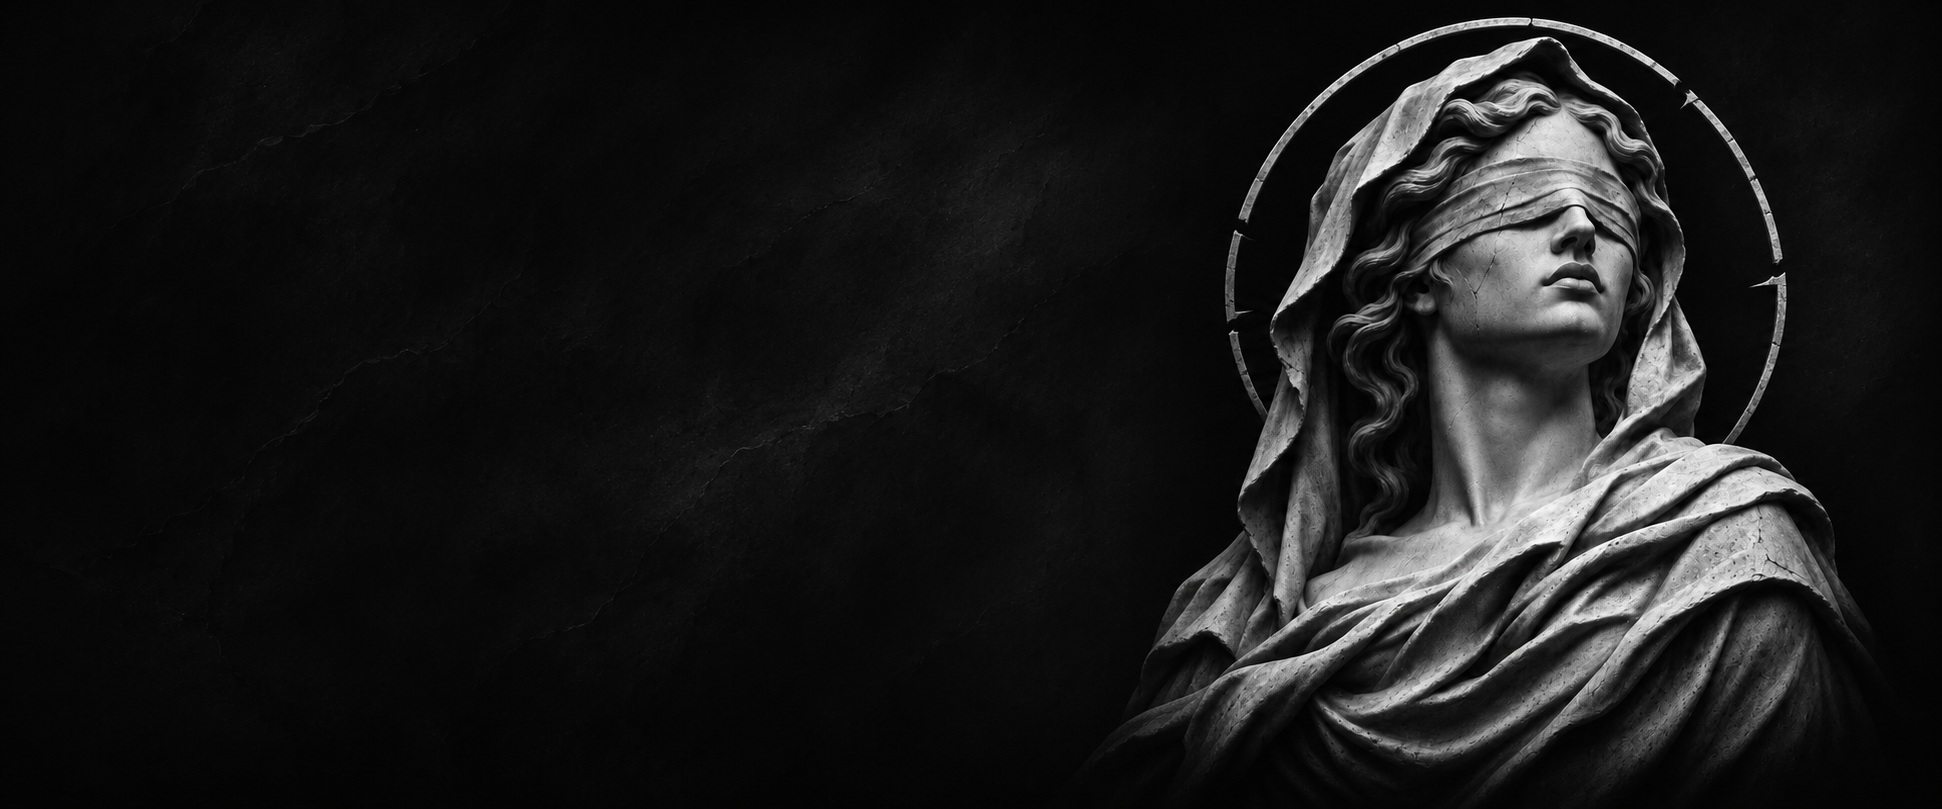
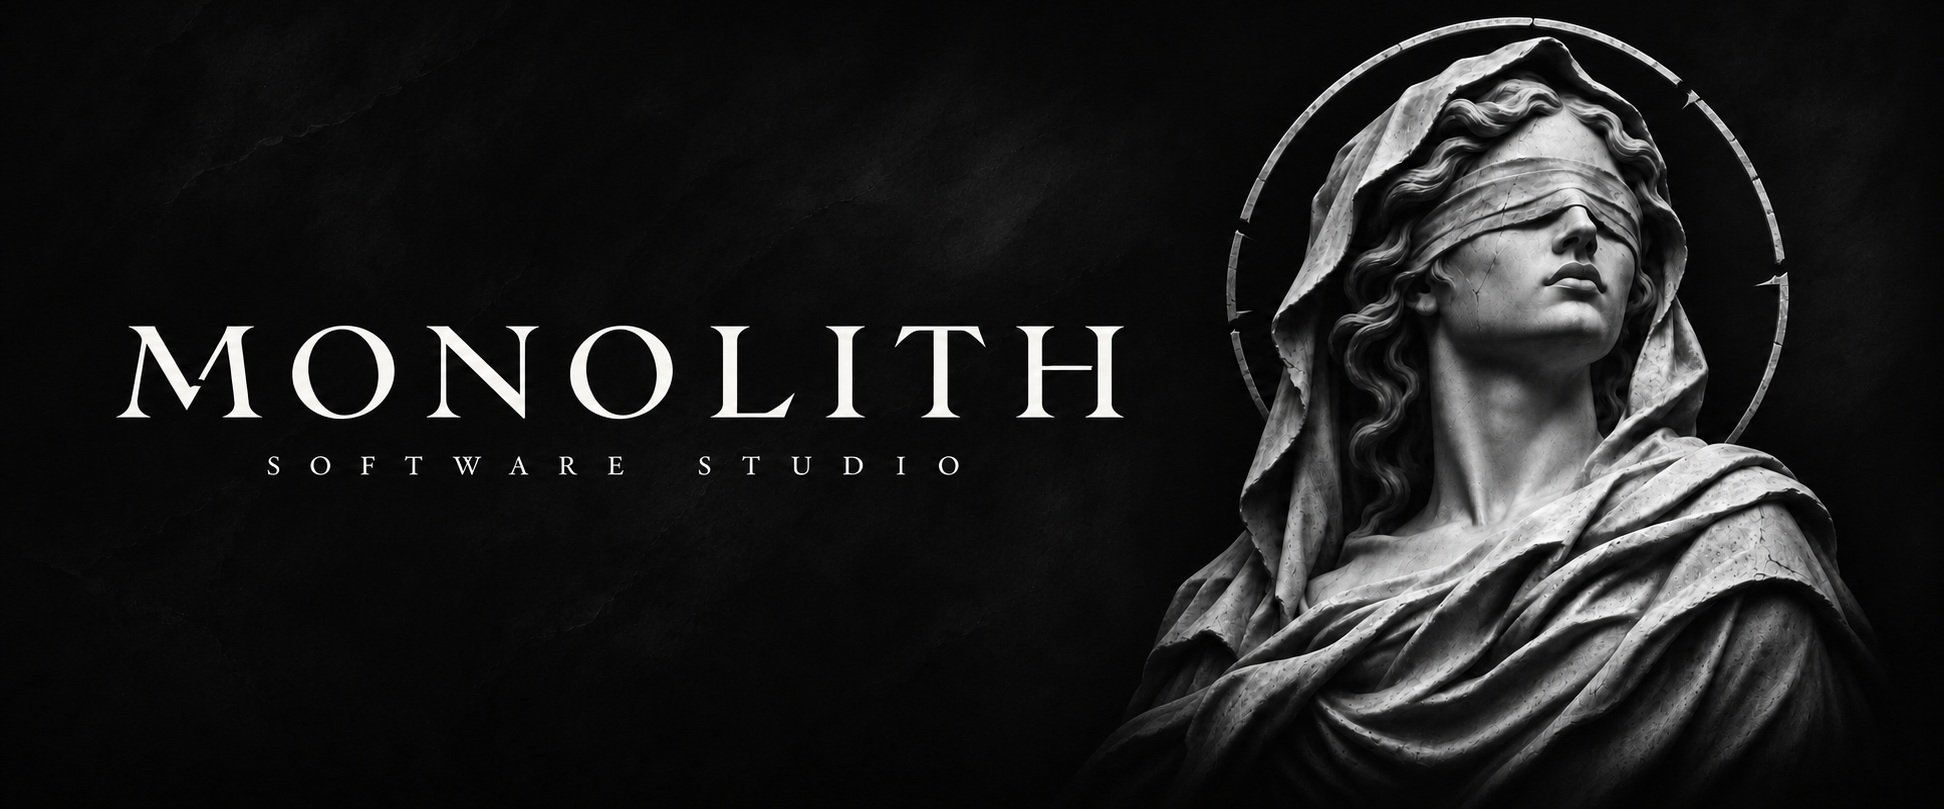
4

diff --git a/README.md b/README.md
@@ -1,3 +1,16 @@
 <p align="center">
-  <img src="assets/banner.jpg" alt="" width="100%">
+  <img src="assets/banner.jpg" alt="Monolith — software studio" width="100%">
+</p>
+
+<br>
+
+<p align="center">
+  We make apps and tools.<br>
+  You’ll find our projects here as we release them.
+</p>
+
+<br>
+
+<p align="center">
+  <a href="https://github.com/monolithcraft?tab=repositories">Browse repositories</a>
 </p>
